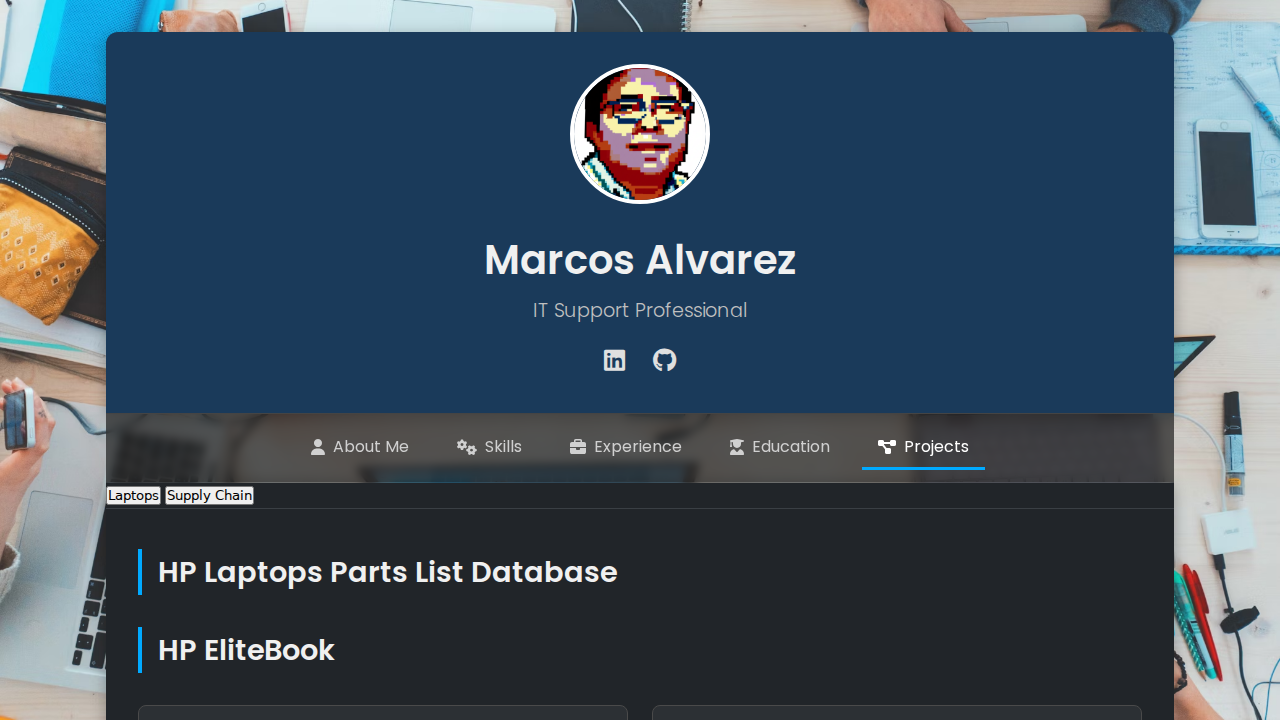
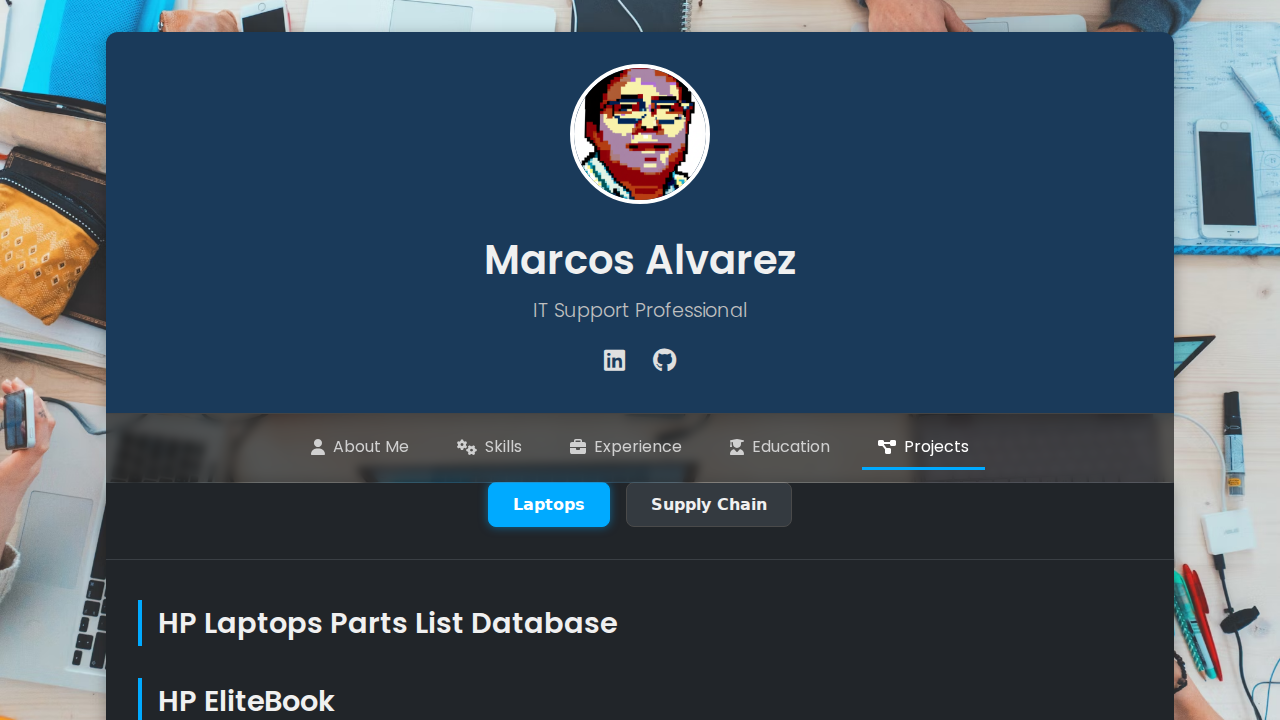
Feat: Consolidate projects and style toggle buttons
This commit consolidates the `laptops.html` and `supply_chain.html` pages into a single `projects.html` page and styles the new toggle buttons.

Key changes include:
- A new `projects.html` page that contains the content of both the old pages.
- Toggle buttons on the `projects.html` page to switch between the "Laptops" and "Supply Chain" views.
- Updated navigation bar on all pages to replace the "Laptops" and "Supply Chain" links with a single "Projects" link.
- Deletion of the now-redundant `laptops.html` and `supply_chain.html` files.
- Added new CSS rules to style the toggle buttons to match the product card style with a brighter background.

diff --git a/css/styles.css b/css/styles.css
@@ -273,6 +273,39 @@ footer {
 }
 
 
+/* --- Project Toggle Buttons --- */
+.project-toggle {
+    margin-bottom: 2rem;
+    display: flex;
+    justify-content: center;
+    gap: 1rem;
+}
+
+.project-toggle button {
+    background-color: #343a40; /* Brighter than laptop-card */
+    color: #f0f0f0;
+    border: 1px solid #4a4a4a;
+    padding: 0.75rem 1.5rem;
+    border-radius: 8px;
+    font-size: 1rem;
+    font-weight: 600;
+    cursor: pointer;
+    transition: all 0.3s ease;
+}
+
+.project-toggle button:hover {
+    background-color: #495057;
+    border-color: #6c757d;
+}
+
+.project-toggle button.active {
+    background-color: #00aaff;
+    color: #ffffff;
+    border-color: #00aaff;
+    box-shadow: 0 0 10px rgba(0, 170, 255, 0.5);
+}
+
+
 /* --- Table Styles --- */
 #laptops-table-container,
 #supply-chain-table-container {
